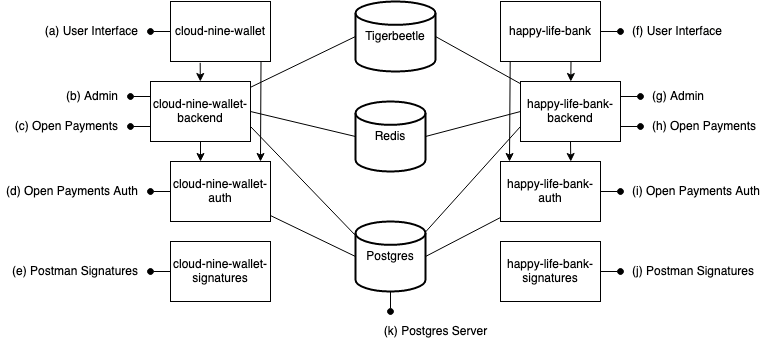
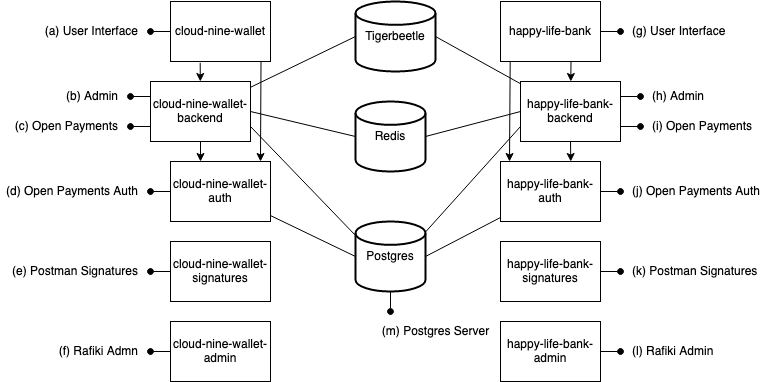
chore: update localenv README and diagram

diff --git a/infrastructure/local/README.md b/infrastructure/local/README.md
@@ -34,11 +34,11 @@ pnpm localenv:psql:dbvolumes:remove
 ```
 
 The local environment consists of a primary Rafiki instance and a secondary Rafiki instance, each with
-its own docker compose files ([Cloud Nine Wallet](./docker-compose.cnw.yml), [Happy Life Bank](./docker-compose.hlf.yml)).
-The primary Cloud Nine Wallet docker compose file (`docker-compose.cnw.yml`) includes the main Rafiki services `backend` and `auth`, as well
+its own docker compose files ([Cloud Nine Wallet](./cloud-nine-wallet/docker-compose.yml), [Happy Life Bank](./happy-life-bank/docker-compose.yml)).
+The primary Cloud Nine Wallet docker compose file (`./cloud-nine-wallet/docker-compose.yml`) includes the main Rafiki services `backend` and `auth`, as well
 as the required data stores tigerbeetle (if enabled), redis, and postgres, so it can be run on its own. Furthermore,
 both include the `local-signature-utils` signature generation app for Postman.
-The secondary Happy Life Bank docker compose file (`docker-compose.hlb.yml`) includes only the Rafiki services, not the data stores. It uses the
+The secondary Happy Life Bank docker compose file (`./happy-life-bank/docker-compose.yml`) includes only the Rafiki services, not the data stores. It uses the
 data stores created by the primary Rafiki instance so it can't be run by itself.
 The `pnpm localenv:start` command starts both the primary instance and the secondary.
 
@@ -54,20 +54,26 @@ The `pnpm localenv:start` command starts both the primary instance and the secon
 
 (c) Open Payments API - accessible at http://localhost:3000
 
-(d) Open Payments Auth API - accessible at accessible at http://localhost:3006
+(d) Open Payments Auth API - accessible at http://localhost:3006
 
-(e) Postman Signature Service - accessible at accessible at http://localhost:3040
+(e) Postman Signature Service - accessible at http://localhost:3040
+
+(f) Rafiki Admin - accessible at http://localhost:3010
 
 #### Happy Life Bank
 
-(f) User Interface - accessible at http://localhost:3031
+(g) User Interface - accessible at http://localhost:3031
 
-(g) Admin API - accessible at http://localhost:4001/graphql
+(h) Admin API - accessible at http://localhost:4001/graphql
 
-(h) Open Payments API - accessible at http://localhost:4000
+(i) Open Payments API - accessible at http://localhost:4000
 
-(i) Open Payments Auth API - accessible at accessible at http://localhost:4006
+(j) Open Payments Auth API - accessible at http://localhost:4006
 
-(j) Postman Signature Service - accessible at accessible at http://localhost:3041
+(k) Postman Signature Service - accessible at http://localhost:3041
 
-(k) Postgres Server - accessible at http://localhost:5432
+(l) Rafiki Admin - accessible at http://localhost:4010
+
+#### Database
+
+(m) Postgres Server - accessible at http://localhost:5432
